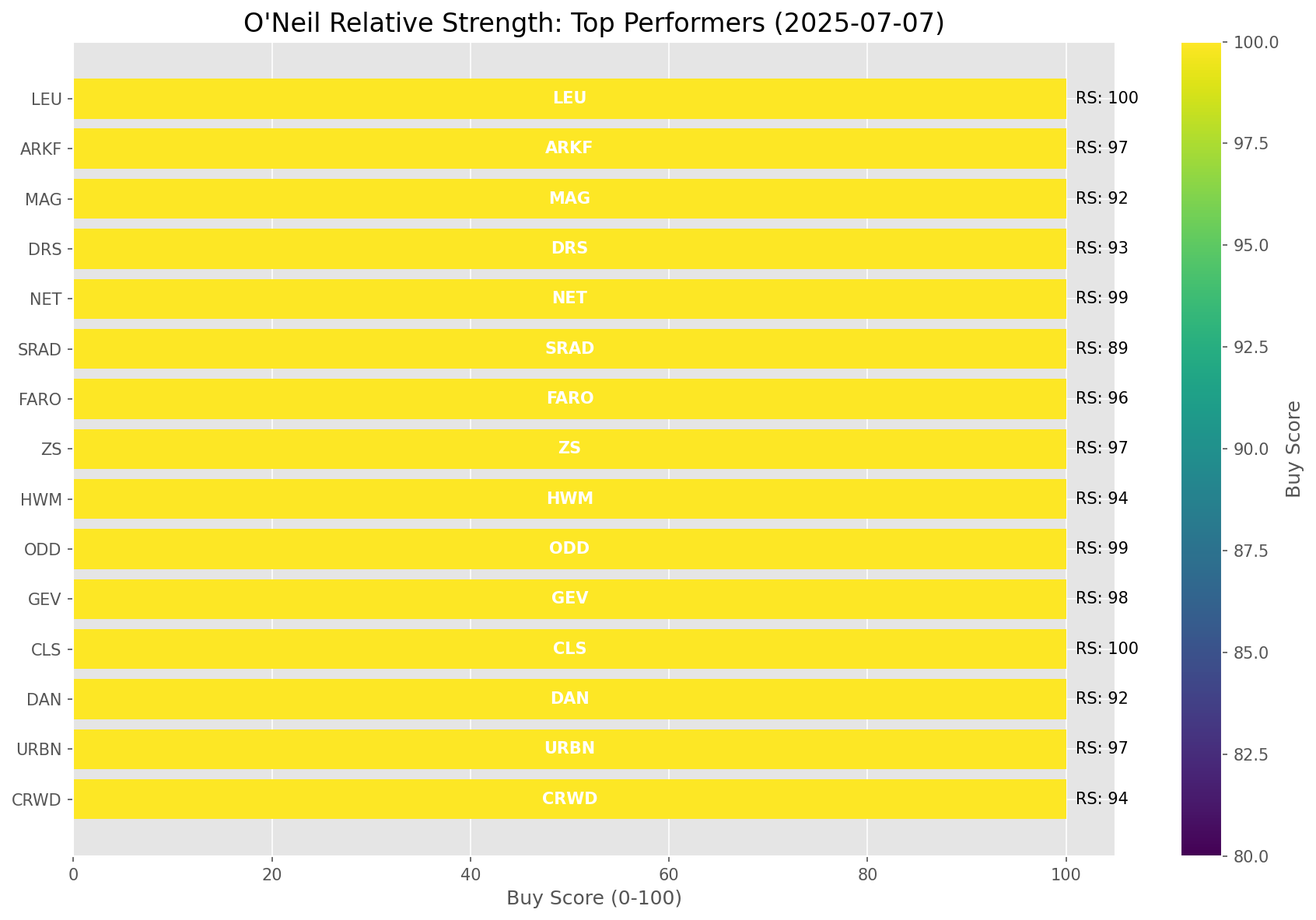
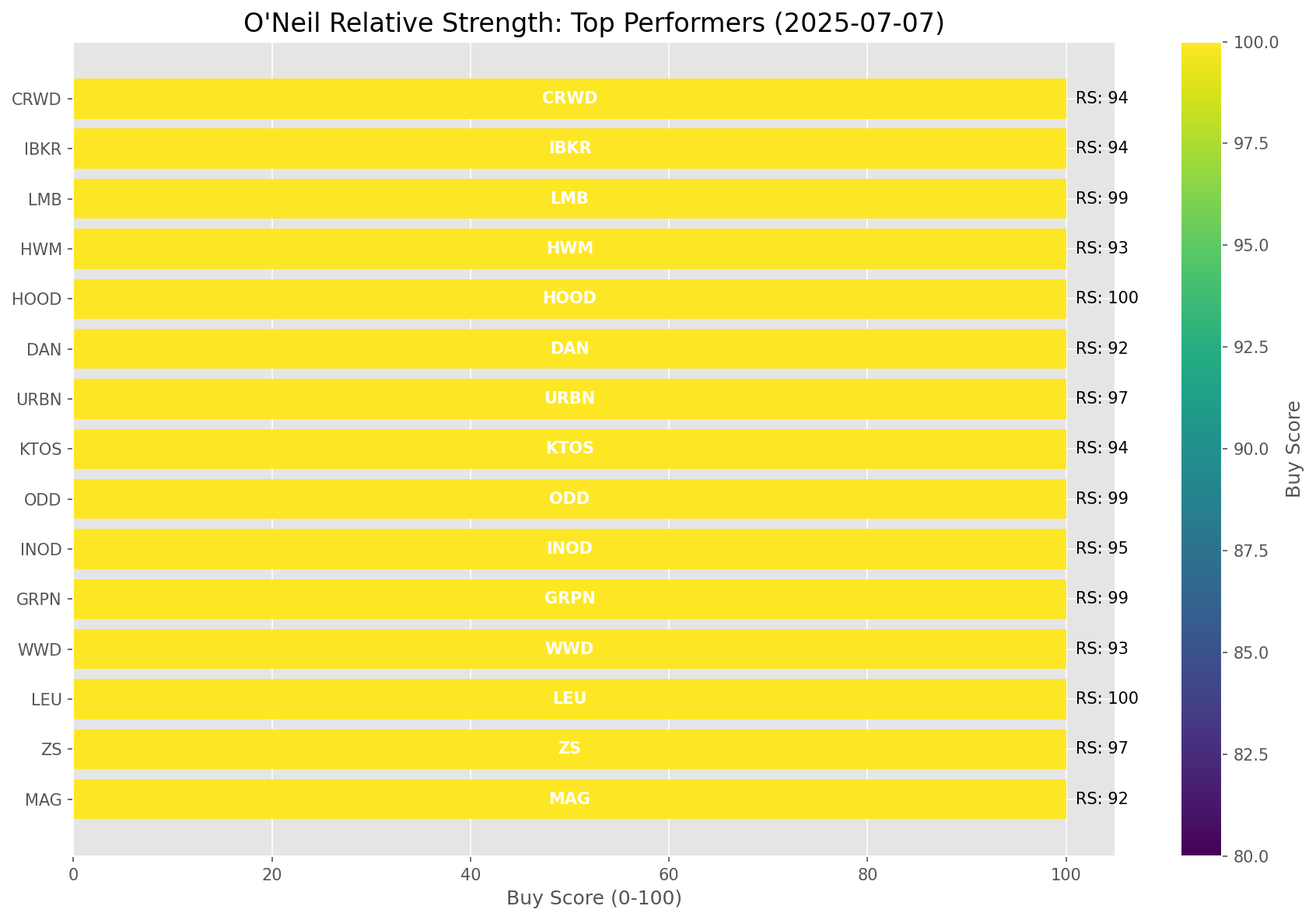
Add market report for 2025-07-07

diff --git a/oneil_relative_strength_report_2025-07-07.md b/oneil_relative_strength_report_2025-07-07.md
@@ -9,11 +9,11 @@
 | Metric | Value |
 |--------|-------|
 | **Market Valuation** | **Overvalued** |
-| **Current Ratio** | 10.22 |
+| **Current Ratio** | 10.23 |
 | **Historical Mean** | 9.40 |
 | **Standard Deviation** | 0.49 |
 | **Z-Score (StdDev from Mean)** | 1.81 |
-| **Total Market Cap** | $306.17 trillion |
+| **Total Market Cap** | $306.38 trillion |
 | **GDP** | $29.96 trillion |
 
 ## **Market Insights**
@@ -49,41 +49,41 @@ Based on William O'Neil's Relative Strength Methodology
 
 | ETF | Strength | RS Rating | Performance | Above Key MAs | Trend | Sector |
 |-----|----------|-----------|-------------|--------------|-------|--------|
-| [ARKW](https://www.tradingview.com/chart/?symbol=ARKW) | 98.5 | 97.0 | 61.89% | 10d ✓, 50d ✓, 200d ✓ | ↗ | Next Generation Internet |
-| [ARKF](https://www.tradingview.com/chart/?symbol=ARKF) | 98.5 | 97.0 | 58.72% | 10d ✓, 50d ✓, 200d ✓ | ↗ | Fintech Innovation |
-| [BLOK](https://www.tradingview.com/chart/?symbol=BLOK) | 98.0 | 96.0 | 54.61% | 10d ✓, 50d ✓, 200d ✓ | ↗ | Blockchain & Cryptocurrency |
-| [ARKK](https://www.tradingview.com/chart/?symbol=ARKK) | 98.0 | 96.0 | 55.85% | 10d ✓, 50d ✓, 200d ✓ | ↗ | Innovation |
-| [XLK](https://www.tradingview.com/chart/?symbol=XLK) | 93.5 | 87.0 | 30.93% | 10d ✓, 50d ✓, 200d ✓ | ↗ | Technology |
-| [JETS](https://www.tradingview.com/chart/?symbol=JETS) | 91.0 | 82.0 | 25.73% | 10d ✓, 50d ✓, 200d ✓ | ↗ | Airlines |
-| [AIQ](https://www.tradingview.com/chart/?symbol=AIQ) | 90.5 | 81.0 | 25.14% | 10d ✓, 50d ✓, 200d ✓ | ↗ | Artificial Intelligence & Technology |
-| [CIBR](https://www.tradingview.com/chart/?symbol=CIBR) | 90.0 | 80.0 | 24.01% | 10d ✓, 50d ✓, 200d ✓ | ↗ | Cybersecurity |
-| [PAVE](https://www.tradingview.com/chart/?symbol=PAVE) | 89.5 | 79.0 | 23.54% | 10d ✓, 50d ✓, 200d ✓ | ↗ | Infrastructure |
-| [URA](https://www.tradingview.com/chart/?symbol=URA) | 89.1 | 98.0 | 67.72% | 10d ✗, 50d ✓, 200d ✓ | ↗ | Uranium |
-| [XLI](https://www.tradingview.com/chart/?symbol=XLI) | 86.5 | 73.0 | 18.54% | 10d ✓, 50d ✓, 200d ✓ | ↗ | Industrial |
-| [XLC](https://www.tradingview.com/chart/?symbol=XLC) | 84.5 | 69.0 | 16.14% | 10d ✓, 50d ✓, 200d ✓ | ↗ | Communications |
-| [SLV](https://www.tradingview.com/chart/?symbol=SLV) | 83.5 | 67.0 | 15.16% | 10d ✓, 50d ✓, 200d ✓ | ↗ | Silver |
-| [XLY](https://www.tradingview.com/chart/?symbol=XLY) | 82.5 | 65.0 | 14.32% | 10d ✓, 50d ✓, 200d ✓ | ↗ | Consumer Discretionary |
-| [XLF](https://www.tradingview.com/chart/?symbol=XLF) | 79.0 | 58.0 | 10.79% | 10d ✓, 50d ✓, 200d ✓ | ↗ | Financial |
-| [SOXX](https://www.tradingview.com/chart/?symbol=SOXX) | 76.0 | 92.0 | 40.61% | 10d ✓, 50d ✓, 200d ✓ | ↘ | Semiconductors |
-| [IYZ](https://www.tradingview.com/chart/?symbol=IYZ) | 75.5 | 51.0 | 8.22% | 10d ✓, 50d ✓, 200d ✓ | ↗ | Telecommunications |
-| [XLU](https://www.tradingview.com/chart/?symbol=XLU) | 70.5 | 41.0 | 3.64% | 10d ✓, 50d ✓, 200d ✓ | ↗ | Utilities |
-| [ARKG](https://www.tradingview.com/chart/?symbol=ARKG) | 70.0 | 80.0 | 24.29% | 10d ✓, 50d ✓, 200d ✓ | ↘ | Genomics |
-| [ICLN](https://www.tradingview.com/chart/?symbol=ICLN) | 64.5 | 69.0 | 16.47% | 10d ✓, 50d ✓, 200d ✓ | ↘ | Clean Energy |
-| [XLP](https://www.tradingview.com/chart/?symbol=XLP) | 64.0 | 28.0 | -0.20% | 10d ✓, 50d ✓, 200d ✓ | ↗ | Consumer Staples |
-| [XLB](https://www.tradingview.com/chart/?symbol=XLB) | 57.0 | 54.0 | 9.15% | 10d ✓, 50d ✓, 200d ✓ | ↘ | Materials |
-| [IYT](https://www.tradingview.com/chart/?symbol=IYT) | 56.5 | 53.0 | 8.74% | 10d ✓, 50d ✓, 200d ✓ | ↘ | Transportation |
-| [GLD](https://www.tradingview.com/chart/?symbol=GLD) | 53.7 | 47.0 | 6.74% | 10d ✗, 50d ✗, 200d ✓ | ↗ | Gold |
-| [KWEB](https://www.tradingview.com/chart/?symbol=KWEB) | 51.6 | 23.0 | -1.62% | 10d ✗, 50d ✓, 200d ✓ | ↗ | Chinese Internet |
-| [DBC](https://www.tradingview.com/chart/?symbol=DBC) | 48.0 | 36.0 | 1.89% | 10d ✓, 50d ✓, 200d ✓ | ↘ | Commodities |
-| [ITB](https://www.tradingview.com/chart/?symbol=ITB) | 41.3 | 43.0 | 4.85% | 10d ✓, 50d ✓, 200d ✗ | ↘ | Home Construction |
-| [IBB](https://www.tradingview.com/chart/?symbol=IBB) | 39.8 | 40.0 | 3.55% | 10d ✓, 50d ✓, 200d ✗ | ↘ | Biotechnology |
-| [IYR](https://www.tradingview.com/chart/?symbol=IYR) | 38.3 | 37.0 | 2.34% | 10d ✓, 50d ✓, 200d ✗ | ↘ | Real Estate |
-| [XLE](https://www.tradingview.com/chart/?symbol=XLE) | 33.3 | 27.0 | -0.51% | 10d ✓, 50d ✓, 200d ✗ | ↘ | Energy |
+| [ARKF](https://www.tradingview.com/chart/?symbol=ARKF) | 98.5 | 97.0 | 58.98% | 10d ✓, 50d ✓, 200d ✓ | ↗ | Fintech Innovation |
+| [ARKW](https://www.tradingview.com/chart/?symbol=ARKW) | 98.5 | 97.0 | 62.26% | 10d ✓, 50d ✓, 200d ✓ | ↗ | Next Generation Internet |
+| [BLOK](https://www.tradingview.com/chart/?symbol=BLOK) | 98.0 | 96.0 | 54.21% | 10d ✓, 50d ✓, 200d ✓ | ↗ | Blockchain & Cryptocurrency |
+| [ARKK](https://www.tradingview.com/chart/?symbol=ARKK) | 98.0 | 96.0 | 56.38% | 10d ✓, 50d ✓, 200d ✓ | ↗ | Innovation |
+| [XLK](https://www.tradingview.com/chart/?symbol=XLK) | 93.0 | 86.0 | 31.19% | 10d ✓, 50d ✓, 200d ✓ | ↗ | Technology |
+| [AIQ](https://www.tradingview.com/chart/?symbol=AIQ) | 90.5 | 81.0 | 25.42% | 10d ✓, 50d ✓, 200d ✓ | ↗ | Artificial Intelligence & Technology |
+| [JETS](https://www.tradingview.com/chart/?symbol=JETS) | 90.0 | 80.0 | 25.10% | 10d ✓, 50d ✓, 200d ✓ | ↗ | Airlines |
+| [CIBR](https://www.tradingview.com/chart/?symbol=CIBR) | 89.5 | 79.0 | 24.14% | 10d ✓, 50d ✓, 200d ✓ | ↗ | Cybersecurity |
+| [URA](https://www.tradingview.com/chart/?symbol=URA) | 89.1 | 98.0 | 68.83% | 10d ✗, 50d ✓, 200d ✓ | ↗ | Uranium |
+| [PAVE](https://www.tradingview.com/chart/?symbol=PAVE) | 89.0 | 78.0 | 23.30% | 10d ✓, 50d ✓, 200d ✓ | ↗ | Infrastructure |
+| [XLI](https://www.tradingview.com/chart/?symbol=XLI) | 85.5 | 71.0 | 18.30% | 10d ✓, 50d ✓, 200d ✓ | ↗ | Industrial |
+| [XLC](https://www.tradingview.com/chart/?symbol=XLC) | 83.5 | 67.0 | 16.00% | 10d ✓, 50d ✓, 200d ✓ | ↗ | Communications |
+| [SLV](https://www.tradingview.com/chart/?symbol=SLV) | 83.0 | 66.0 | 15.46% | 10d ✓, 50d ✓, 200d ✓ | ↗ | Silver |
+| [XLY](https://www.tradingview.com/chart/?symbol=XLY) | 82.0 | 64.0 | 14.34% | 10d ✓, 50d ✓, 200d ✓ | ↗ | Consumer Discretionary |
+| [XLF](https://www.tradingview.com/chart/?symbol=XLF) | 78.0 | 56.0 | 10.64% | 10d ✓, 50d ✓, 200d ✓ | ↗ | Financial |
+| [SOXX](https://www.tradingview.com/chart/?symbol=SOXX) | 76.0 | 92.0 | 41.35% | 10d ✓, 50d ✓, 200d ✓ | ↘ | Semiconductors |
+| [IYZ](https://www.tradingview.com/chart/?symbol=IYZ) | 75.0 | 50.0 | 8.22% | 10d ✓, 50d ✓, 200d ✓ | ↗ | Telecommunications |
+| [ARKG](https://www.tradingview.com/chart/?symbol=ARKG) | 70.0 | 80.0 | 24.90% | 10d ✓, 50d ✓, 200d ✓ | ↘ | Genomics |
+| [XLU](https://www.tradingview.com/chart/?symbol=XLU) | 69.5 | 39.0 | 3.47% | 10d ✓, 50d ✓, 200d ✓ | ↗ | Utilities |
+| [ICLN](https://www.tradingview.com/chart/?symbol=ICLN) | 64.5 | 69.0 | 16.63% | 10d ✓, 50d ✓, 200d ✓ | ↘ | Clean Energy |
+| [XLP](https://www.tradingview.com/chart/?symbol=XLP) | 64.0 | 28.0 | -0.24% | 10d ✓, 50d ✓, 200d ✓ | ↗ | Consumer Staples |
+| [GLD](https://www.tradingview.com/chart/?symbol=GLD) | 63.6 | 47.0 | 6.85% | 10d ✗, 50d ✓, 200d ✓ | ↗ | Gold |
+| [IYT](https://www.tradingview.com/chart/?symbol=IYT) | 56.0 | 52.0 | 8.74% | 10d ✓, 50d ✓, 200d ✓ | ↘ | Transportation |
+| [XLB](https://www.tradingview.com/chart/?symbol=XLB) | 56.0 | 52.0 | 9.06% | 10d ✓, 50d ✓, 200d ✓ | ↘ | Materials |
+| [KWEB](https://www.tradingview.com/chart/?symbol=KWEB) | 51.1 | 22.0 | -1.65% | 10d ✗, 50d ✓, 200d ✓ | ↗ | Chinese Internet |
+| [DBC](https://www.tradingview.com/chart/?symbol=DBC) | 48.0 | 36.0 | 2.07% | 10d ✓, 50d ✓, 200d ✓ | ↘ | Commodities |
+| [ITB](https://www.tradingview.com/chart/?symbol=ITB) | 40.8 | 42.0 | 4.59% | 10d ✓, 50d ✓, 200d ✗ | ↘ | Home Construction |
+| [IBB](https://www.tradingview.com/chart/?symbol=IBB) | 39.8 | 40.0 | 3.72% | 10d ✓, 50d ✓, 200d ✗ | ↘ | Biotechnology |
+| [XLE](https://www.tradingview.com/chart/?symbol=XLE) | 32.8 | 26.0 | -0.69% | 10d ✓, 50d ✓, 200d ✗ | ↘ | Energy |
 | [DBA](https://www.tradingview.com/chart/?symbol=DBA) | 29.0 | 18.0 | -3.86% | 10d ✗, 50d ✗, 200d ✗ | ↗ | Agriculture |
-| [XLV](https://www.tradingview.com/chart/?symbol=XLV) | 26.8 | 14.0 | -5.93% | 10d ✓, 50d ✓, 200d ✗ | ↘ | Healthcare |
+| [IYR](https://www.tradingview.com/chart/?symbol=IYR) | 27.4 | 35.0 | 1.95% | 10d ✗, 50d ✓, 200d ✗ | ↘ | Real Estate |
+| [XLV](https://www.tradingview.com/chart/?symbol=XLV) | 26.8 | 14.0 | -6.03% | 10d ✓, 50d ✓, 200d ✗ | ↘ | Healthcare |
 | [UUP](https://www.tradingview.com/chart/?symbol=UUP) | 19.4 | 19.0 | -3.26% | 10d ✓, 50d ✗, 200d ✗ | ↘ | U.S. Dollar |
-| [BIL](https://www.tradingview.com/chart/?symbol=BIL) | 15.0 | 30.0 | 0.05% | 10d ✗, 50d ✗, 200d ✗ | ↘ | Short-term Treasuries |
-| [TLT](https://www.tradingview.com/chart/?symbol=TLT) | 7.0 | 14.0 | -6.08% | 10d ✗, 50d ✗, 200d ✗ | ↘ | Long-term Treasuries |
+| [BIL](https://www.tradingview.com/chart/?symbol=BIL) | 14.5 | 29.0 | 0.06% | 10d ✗, 50d ✗, 200d ✗ | ↘ | Short-term Treasuries |
+| [TLT](https://www.tradingview.com/chart/?symbol=TLT) | 7.0 | 14.0 | -6.16% | 10d ✗, 50d ✗, 200d ✗ | ↘ | Long-term Treasuries |
 
 ### **Sector ETF Performance Interpretation**
 
@@ -98,9 +98,9 @@ This table shows the relative strength metrics for different market sectors base
 
 ### **Current Sector Leadership**
 
-The current market leadership is coming from the following sectors: **Next Generation Internet, Fintech Innovation, Blockchain & Cryptocurrency**.
+The current market leadership is coming from the following sectors: **Fintech Innovation, Next Generation Internet, Blockchain & Cryptocurrency**.
 
-The **Next Generation Internet** sector (represented by **ARKW**) is showing particularly strong relative strength with an RS rating of 97.0 and performance of 61.89% vs. the S&P 500. This sector is trading above its 10-day, 50-day, 200-day moving average(s). Investors should consider focusing on high RS stocks within these leading sectors for potential outperformance.
+The **Fintech Innovation** sector (represented by **ARKF**) is showing particularly strong relative strength with an RS rating of 97.0 and performance of 58.98% vs. the S&P 500. This sector is trading above its 10-day, 50-day, 200-day moving average(s). Investors should consider focusing on high RS stocks within these leading sectors for potential outperformance.
 
 ---
 
@@ -110,141 +110,148 @@ The following 51 stocks show exceptional relative strength:
 
 | RS Rating | Buy Score | Current Price | Chart | Name | Ticker |
 |-----------|-----------|---------------|-------|------|--------|
-| 100 | 100 | $156.69 | [Chart](https://www.tradingview.com/chart/?symbol=CLS) | Celestica, Inc. | CLS |
-| 100 | 100 | $181.28 | [Chart](https://www.tradingview.com/chart/?symbol=LEU) | Centrus Energy Corp. | LEU |
-| 100 | 100 | $94.19 | [Chart](https://www.tradingview.com/chart/?symbol=HOOD) | Robinhood Markets, Inc. Class A Common Stock | HOOD |
-| 100 | 100 | $279.43 | [Chart](https://www.tradingview.com/chart/?symbol=DAVE) | Dave Inc. Class A Common Stock | DAVE |
-| 100 | 100 | $177.49 | [Chart](https://www.tradingview.com/chart/?symbol=SEZL) | Sezzle Inc. Common Stock | SEZL |
-| 99 | 100 | $76.01 | [Chart](https://www.tradingview.com/chart/?symbol=ODD) | ODDITY Tech Ltd. Class A Ordinary Shares | ODD |
-| 99 | 100 | $193.04 | [Chart](https://www.tradingview.com/chart/?symbol=NET) | Cloudflare, Inc. Class A common stock, par value $0.001 per share | NET |
-| 99 | 100 | $106.70 | [Chart](https://www.tradingview.com/chart/?symbol=RBLX) | Roblox Corporation | RBLX |
+| 100 | 100 | $182.53 | [Chart](https://www.tradingview.com/chart/?symbol=LEU) | Centrus Energy Corp. | LEU |
+| 100 | 100 | $93.22 | [Chart](https://www.tradingview.com/chart/?symbol=HOOD) | Robinhood Markets, Inc. Class A Common Stock | HOOD |
+| 100 | 100 | $179.20 | [Chart](https://www.tradingview.com/chart/?symbol=SEZL) | Sezzle Inc. Common Stock | SEZL |
+| 100 | 100 | $155.79 | [Chart](https://www.tradingview.com/chart/?symbol=CLS) | Celestica, Inc. | CLS |
+| 100 | 100 | $281.74 | [Chart](https://www.tradingview.com/chart/?symbol=DAVE) | Dave Inc. Class A Common Stock | DAVE |
+| 99 | 100 | $36.49 | [Chart](https://www.tradingview.com/chart/?symbol=GRPN) | Groupon, Inc.Common Stock | GRPN |
+| 99 | 100 | $75.33 | [Chart](https://www.tradingview.com/chart/?symbol=ODD) | ODDITY Tech Ltd. Class A Ordinary Shares | ODD |
 | 99 | 100 | $149.20 | [Chart](https://www.tradingview.com/chart/?symbol=LMB) | Limbach Holdings, Inc Common Stock | LMB |
-| 99 | 100 | $36.89 | [Chart](https://www.tradingview.com/chart/?symbol=GRPN) | Groupon, Inc.Common Stock | GRPN |
-| 99 | 100 | $351.38 | [Chart](https://www.tradingview.com/chart/?symbol=CVNA) | Carvana Co. | CVNA |
-| 98 | 100 | $525.32 | [Chart](https://www.tradingview.com/chart/?symbol=GEV) | GE Vernova Inc. | GEV |
-| 98 | 100 | $333.00 | [Chart](https://www.tradingview.com/chart/?symbol=RCL) | Royal Caribbean Group | RCL |
-| 97 | 100 | $72.04 | [Chart](https://www.tradingview.com/chart/?symbol=URBN) | Urban Outfitters Inc | URBN |
-| 97 | 100 | $315.07 | [Chart](https://www.tradingview.com/chart/?symbol=ZS) | Zscaler, Inc. Common Stock | ZS |
-| 97 | 100 | $50.46 | [Chart](https://www.tradingview.com/chart/?symbol=ARKF) | ARK Fintech Innovation ETF | ARKF |
-| 96 | 100 | $43.96 | [Chart](https://www.tradingview.com/chart/?symbol=FARO) | Faro Technologies Inc | FARO |
-| 96 | 100 | $90.50 | [Chart](https://www.tradingview.com/chart/?symbol=RBRK) | Rubrik, Inc. | RBRK |
-| 96 | 100 | $38.57 | [Chart](https://www.tradingview.com/chart/?symbol=AS) | Amer Sports, Inc. | AS |
-| 95 | 100 | $45.45 | [Chart](https://www.tradingview.com/chart/?symbol=KTOS) | Kratos Defense & Security Solutions, Inc. | KTOS |
-| 95 | 100 | $49.57 | [Chart](https://www.tradingview.com/chart/?symbol=INOD) | Innodata Inc. | INOD |
-| 94 | 100 | $503.76 | [Chart](https://www.tradingview.com/chart/?symbol=CRWD) | CrowdStrike Holdings, Inc. Class A Common Stock | CRWD |
-| 94 | 100 | $181.01 | [Chart](https://www.tradingview.com/chart/?symbol=HWM) | Howmet Aerospace Inc. | HWM |
-| 94 | 100 | $253.18 | [Chart](https://www.tradingview.com/chart/?symbol=WWD) | Woodward, Inc. | WWD |
-| 94 | 100 | $58.37 | [Chart](https://www.tradingview.com/chart/?symbol=IBKR) | Interactive Brokers Group, Inc. Class A Common Stock | IBKR |
-| 93 | 100 | $46.68 | [Chart](https://www.tradingview.com/chart/?symbol=DRS) | Leonardo DRS, Inc. Common Stock | DRS |
-| 92 | 100 | $17.55 | [Chart](https://www.tradingview.com/chart/?symbol=DAN) | Dana Incorporated | DAN |
+| 99 | 100 | $356.41 | [Chart](https://www.tradingview.com/chart/?symbol=CVNA) | Carvana Co. | CVNA |
+| 99 | 100 | $193.52 | [Chart](https://www.tradingview.com/chart/?symbol=NET) | Cloudflare, Inc. Class A common stock, par value $0.001 per share | NET |
+| 99 | 100 | $107.34 | [Chart](https://www.tradingview.com/chart/?symbol=RBLX) | Roblox Corporation | RBLX |
+| 98 | 100 | $527.38 | [Chart](https://www.tradingview.com/chart/?symbol=GEV) | GE Vernova Inc. | GEV |
+| 98 | 100 | $330.69 | [Chart](https://www.tradingview.com/chart/?symbol=RCL) | Royal Caribbean Group | RCL |
+| 97 | 100 | $315.86 | [Chart](https://www.tradingview.com/chart/?symbol=ZS) | Zscaler, Inc. Common Stock | ZS |
+| 97 | 100 | $71.97 | [Chart](https://www.tradingview.com/chart/?symbol=URBN) | Urban Outfitters Inc | URBN |
+| 97 | 100 | $50.54 | [Chart](https://www.tradingview.com/chart/?symbol=ARKF) | ARK Fintech Innovation ETF | ARKF |
+| 97 | 100 | $138.00 | [Chart](https://www.tradingview.com/chart/?symbol=PLTR) | Palantir Technologies Inc. Class A Common Stock | PLTR |
+| 96 | 100 | $43.94 | [Chart](https://www.tradingview.com/chart/?symbol=FARO) | Faro Technologies Inc | FARO |
+| 96 | 100 | $90.45 | [Chart](https://www.tradingview.com/chart/?symbol=RBRK) | Rubrik, Inc. | RBRK |
+| 96 | 100 | $38.40 | [Chart](https://www.tradingview.com/chart/?symbol=AS) | Amer Sports, Inc. | AS |
+| 95 | 100 | $50.23 | [Chart](https://www.tradingview.com/chart/?symbol=INOD) | Innodata Inc. | INOD |
+| 94 | 100 | $45.40 | [Chart](https://www.tradingview.com/chart/?symbol=KTOS) | Kratos Defense & Security Solutions, Inc. | KTOS |
+| 94 | 100 | $58.28 | [Chart](https://www.tradingview.com/chart/?symbol=IBKR) | Interactive Brokers Group, Inc. Class A Common Stock | IBKR |
+| 94 | 100 | $505.71 | [Chart](https://www.tradingview.com/chart/?symbol=CRWD) | CrowdStrike Holdings, Inc. Class A Common Stock | CRWD |
+| 93 | 100 | $252.74 | [Chart](https://www.tradingview.com/chart/?symbol=WWD) | Woodward, Inc. | WWD |
+| 93 | 100 | $180.48 | [Chart](https://www.tradingview.com/chart/?symbol=HWM) | Howmet Aerospace Inc. | HWM |
+| 93 | 100 | $46.82 | [Chart](https://www.tradingview.com/chart/?symbol=DRS) | Leonardo DRS, Inc. Common Stock | DRS |
 | 92 | 100 | $21.45 | [Chart](https://www.tradingview.com/chart/?symbol=MAG) | MAG Silver Corp. | MAG |
-| 92 | 100 | $91.62 | [Chart](https://www.tradingview.com/chart/?symbol=TPR) | Tapestry, Inc. Common Stock | TPR |
+| 92 | 100 | $17.52 | [Chart](https://www.tradingview.com/chart/?symbol=DAN) | Dana Incorporated | DAN |
+| 92 | 100 | $92.07 | [Chart](https://www.tradingview.com/chart/?symbol=TPR) | Tapestry, Inc. Common Stock | TPR |
 | 91 | 100 | $43.29 | [Chart](https://www.tradingview.com/chart/?symbol=KD) | Kyndryl Holdings, Inc. | KD |
-| 90 | 100 | $25.70 | [Chart](https://www.tradingview.com/chart/?symbol=KAR) | OPENLANE, Inc | KAR |
-| 89 | 100 | $28.23 | [Chart](https://www.tradingview.com/chart/?symbol=SRAD) | Sportradar Group AG Class A Ordinary Shares | SRAD |
+| 90 | 100 | $25.75 | [Chart](https://www.tradingview.com/chart/?symbol=KAR) | OPENLANE, Inc | KAR |
+| 88 | 100 | $28.24 | [Chart](https://www.tradingview.com/chart/?symbol=SRAD) | Sportradar Group AG Class A Ordinary Shares | SRAD |
 | 89 | 99 | $52.89 | [Chart](https://www.tradingview.com/chart/?symbol=BBW) | Build-A-Bear Workshop, Inc. | BBW |
-| 88 | 99 | $61.68 | [Chart](https://www.tradingview.com/chart/?symbol=IBIT) | iShares Bitcoin Trust ETF | IBIT |
-| 88 | 99 | $30.69 | [Chart](https://www.tradingview.com/chart/?symbol=HODL) | VanEck Bitcoin ETF | HODL |
-| 89 | 98 | $66.42 | [Chart](https://www.tradingview.com/chart/?symbol=RYTM) | Rhythm Pharmaceuticals, Inc. Common Stock | RYTM |
-| 84 | 97 | $18.31 | [Chart](https://www.tradingview.com/chart/?symbol=BCS) | Barclays PLC | BCS |
-| 84 | 97 | $66.26 | [Chart](https://www.tradingview.com/chart/?symbol=CHEF) | The Chef's Warehouse Inc | CHEF |
-| 83 | 96 | $29.87 | [Chart](https://www.tradingview.com/chart/?symbol=CAE) | CAE INC | CAE |
-| 84 | 95 | $187.96 | [Chart](https://www.tradingview.com/chart/?symbol=ITA) | iShares U.S. Aerospace & Defense ETF | ITA |
-| 84 | 95 | $284.04 | [Chart](https://www.tradingview.com/chart/?symbol=VEEV) | Veeva Systems Inc. | VEEV |
-| 84 | 95 | $133.65 | [Chart](https://www.tradingview.com/chart/?symbol=NTES) | NetEase, inc. | NTES |
-| 83 | 95 | $59.82 | [Chart](https://www.tradingview.com/chart/?symbol=SHLD) | Global X Defense Tech ETF | SHLD |
-| 84 | 94 | $47.16 | [Chart](https://www.tradingview.com/chart/?symbol=AU) | AngloGold Ashanti plc | AU |
-| 84 | 93 | $49.20 | [Chart](https://www.tradingview.com/chart/?symbol=SIL) | Global X Silver Miners ETF (NEW) | SIL |
-| 84 | 93 | $124.09 | [Chart](https://www.tradingview.com/chart/?symbol=FUTU) | Futu Holdings Limited American Depositary Shares | FUTU |
-| 83 | 93 | $112.08 | [Chart](https://www.tradingview.com/chart/?symbol=SPMO) | Invesco S&P 500 Momentum ETF | SPMO |
-| 82 | 93 | $76.91 | [Chart](https://www.tradingview.com/chart/?symbol=CTVA) | Corteva, Inc. Common Stock | CTVA |
-| 82 | 92 | $82.57 | [Chart](https://www.tradingview.com/chart/?symbol=WFC) | Wells Fargo & Co. | WFC |
-| 80 | 92 | $75.98 | [Chart](https://www.tradingview.com/chart/?symbol=CIBR) | First Trust Exchange-Traded Fund II First Trust NASDAQ Cybersecurity ETF | CIBR |
-| 80 | 92 | $407.66 | [Chart](https://www.tradingview.com/chart/?symbol=CYBR) | CyberArk Software Ltd. | CYBR |
+| 87 | 98 | $30.65 | [Chart](https://www.tradingview.com/chart/?symbol=HODL) | VanEck Bitcoin ETF | HODL |
+| 88 | 97 | $66.00 | [Chart](https://www.tradingview.com/chart/?symbol=RYTM) | Rhythm Pharmaceuticals, Inc. Common Stock | RYTM |
+| 87 | 97 | $61.58 | [Chart](https://www.tradingview.com/chart/?symbol=IBIT) | iShares Bitcoin Trust ETF | IBIT |
+| 84 | 97 | $66.75 | [Chart](https://www.tradingview.com/chart/?symbol=CHEF) | The Chef's Warehouse Inc | CHEF |
+| 83 | 96 | $18.29 | [Chart](https://www.tradingview.com/chart/?symbol=BCS) | Barclays PLC | BCS |
+| 84 | 95 | $284.37 | [Chart](https://www.tradingview.com/chart/?symbol=VEEV) | Veeva Systems Inc. | VEEV |
+| 82 | 95 | $29.85 | [Chart](https://www.tradingview.com/chart/?symbol=CAE) | CAE INC | CAE |
+| 84 | 94 | $47.39 | [Chart](https://www.tradingview.com/chart/?symbol=AU) | AngloGold Ashanti plc | AU |
+| 83 | 94 | $133.78 | [Chart](https://www.tradingview.com/chart/?symbol=NTES) | NetEase, inc. | NTES |
+| 82 | 94 | $59.88 | [Chart](https://www.tradingview.com/chart/?symbol=SHLD) | Global X Defense Tech ETF | SHLD |
+| 82 | 93 | $187.71 | [Chart](https://www.tradingview.com/chart/?symbol=ITA) | iShares U.S. Aerospace & Defense ETF | ITA |
+| 83 | 92 | $49.34 | [Chart](https://www.tradingview.com/chart/?symbol=SIL) | Global X Silver Miners ETF (NEW) | SIL |
+| 83 | 92 | $124.60 | [Chart](https://www.tradingview.com/chart/?symbol=FUTU) | Futu Holdings Limited American Depositary Shares | FUTU |
+| 82 | 92 | $112.14 | [Chart](https://www.tradingview.com/chart/?symbol=SPMO) | Invesco S&P 500 Momentum ETF | SPMO |
+| 81 | 92 | $72.23 | [Chart](https://www.tradingview.com/chart/?symbol=ULS) | UL Solutions Inc. | ULS |
+| 81 | 92 | $76.80 | [Chart](https://www.tradingview.com/chart/?symbol=CTVA) | Corteva, Inc. Common Stock | CTVA |
+| 81 | 91 | $82.18 | [Chart](https://www.tradingview.com/chart/?symbol=WFC) | Wells Fargo & Co. | WFC |
 
 ---
 
 
 ## **Sell Recommendations**
 
-The following 74 stocks show deteriorating relative strength:
+The following 81 stocks show deteriorating relative strength:
 
 | RS Rating | Sell Score | Current Price | Chart | Name | Ticker |
 |-----------|------------|---------------|-------|------|--------|
+| 1 | 100 | $25.18 | [Chart](https://www.tradingview.com/chart/?symbol=QID) | ProShares UltraShort QQQ | QID |
 | 1 | 100 | $10.09 | [Chart](https://www.tradingview.com/chart/?symbol=HIBS) | Direxion Daily S&P 500 High Beta Bear 3X Shares | HIBS |
-| 1 | 100 | $14.41 | [Chart](https://www.tradingview.com/chart/?symbol=NVDS) | Investment Managers Series Trust II Tradr 1.5X Short NVDA Daily ETF | NVDS |
-| 1 | 100 | $26.03 | [Chart](https://www.tradingview.com/chart/?symbol=TECS) | Direxion Daily Technology Bear 3x Shares | TECS |
-| 1 | 100 | $25.25 | [Chart](https://www.tradingview.com/chart/?symbol=QID) | ProShares UltraShort QQQ | QID |
+| 1 | 100 | $25.84 | [Chart](https://www.tradingview.com/chart/?symbol=TECS) | Direxion Daily Technology Bear 3x Shares | TECS |
+| 1 | 100 | $14.33 | [Chart](https://www.tradingview.com/chart/?symbol=NVDS) | Investment Managers Series Trust II Tradr 1.5X Short NVDA Daily ETF | NVDS |
+| 2 | 100 | $43.04 | [Chart](https://www.tradingview.com/chart/?symbol=LINE) | Lineage, Inc. Common Stock | LINE |
 | 2 | 100 | $16.47 | [Chart](https://www.tradingview.com/chart/?symbol=SDS) | ProShares UltraShort S&P500 | SDS |
-| 2 | 100 | $19.49 | [Chart](https://www.tradingview.com/chart/?symbol=BITI) | ProShares Short Bitcoin ETF | BITI |
-| 2 | 100 | $40.22 | [Chart](https://www.tradingview.com/chart/?symbol=SDOW) | ProShares UltraPro Short Dow 30 | SDOW |
+| 2 | 100 | $19.52 | [Chart](https://www.tradingview.com/chart/?symbol=BITI) | ProShares Short Bitcoin ETF | BITI |
 | 2 | 100 | $10.20 | [Chart](https://www.tradingview.com/chart/?symbol=HPK) | HighPeak Energy, Inc. Common Stock | HPK |
-| 2 | 100 | $24.96 | [Chart](https://www.tradingview.com/chart/?symbol=CRTO) | Criteo S.A. | CRTO |
-| 2 | 100 | $42.81 | [Chart](https://www.tradingview.com/chart/?symbol=LINE) | Lineage, Inc. Common Stock | LINE |
-| 3 | 100 | $33.64 | [Chart](https://www.tradingview.com/chart/?symbol=PSQ) | ProShares Short QQQ | PSQ |
-| 3 | 100 | $23.75 | [Chart](https://www.tradingview.com/chart/?symbol=DXD) | ProShares UltraShort Dow 30 | DXD |
-| 3 | 100 | $35.70 | [Chart](https://www.tradingview.com/chart/?symbol=SARK) | Investment Managers Series Trust II Tradr 1X Short Innovation Daily ETF | SARK |
-| 4 | 100 | $78.98 | [Chart](https://www.tradingview.com/chart/?symbol=LNTH) | Lantheus Holdings, Inc | LNTH |
-| 4 | 100 | $93.16 | [Chart](https://www.tradingview.com/chart/?symbol=ZBH) | Zimmer Biomet Holdings, Inc. | ZBH |
-| 4 | 100 | $50.32 | [Chart](https://www.tradingview.com/chart/?symbol=ASGN) | ASGN Incorporated | ASGN |
-| 4 | 100 | $33.41 | [Chart](https://www.tradingview.com/chart/?symbol=CYTK) | Cytokinetics Inc. | CYTK |
-| 5 | 100 | $39.47 | [Chart](https://www.tradingview.com/chart/?symbol=SH) | ProShares Short S&P500 | SH |
-| 5 | 100 | $10.29 | [Chart](https://www.tradingview.com/chart/?symbol=LBTYK) | Liberty Global Ltd. Class C Common Shares | LBTYK |
-| 6 | 100 | $23.44 | [Chart](https://www.tradingview.com/chart/?symbol=AMPH) | Amphastar Pharmaceuticals, Inc. | AMPH |
-| 7 | 100 | $51.97 | [Chart](https://www.tradingview.com/chart/?symbol=LW) | Lamb Weston Holdings, Inc. | LW |
-| 8 | 100 | $84.64 | [Chart](https://www.tradingview.com/chart/?symbol=KSPI) | Joint Stock Company Kaspi.kz American Depository Shares | KSPI |
-| 9 | 100 | $11.84 | [Chart](https://www.tradingview.com/chart/?symbol=LBRT) | Liberty Energy Inc. | LBRT |
-| 9 | 100 | $25.23 | [Chart](https://www.tradingview.com/chart/?symbol=DOG) | ProShares Short Dow30 | DOG |
-| 10 | 100 | $132.06 | [Chart](https://www.tradingview.com/chart/?symbol=KMB) | Kimberly-Clark Corp. | KMB |
-| 11 | 100 | $53.22 | [Chart](https://www.tradingview.com/chart/?symbol=CNMD) | CONMED Corporation | CNMD |
-| 12 | 100 | $47.45 | [Chart](https://www.tradingview.com/chart/?symbol=KBR) | KBR, Inc. | KBR |
+| 2 | 100 | $40.41 | [Chart](https://www.tradingview.com/chart/?symbol=SDOW) | ProShares UltraPro Short Dow 30 | SDOW |
+| 3 | 100 | $35.58 | [Chart](https://www.tradingview.com/chart/?symbol=SARK) | Investment Managers Series Trust II Tradr 1X Short Innovation Daily ETF | SARK |
+| 3 | 100 | $23.84 | [Chart](https://www.tradingview.com/chart/?symbol=DXD) | ProShares UltraShort Dow 30 | DXD |
+| 3 | 100 | $33.59 | [Chart](https://www.tradingview.com/chart/?symbol=PSQ) | ProShares Short QQQ | PSQ |
+| 3 | 100 | $25.14 | [Chart](https://www.tradingview.com/chart/?symbol=CRTO) | Criteo S.A. | CRTO |
+| 4 | 100 | $79.81 | [Chart](https://www.tradingview.com/chart/?symbol=LNTH) | Lantheus Holdings, Inc | LNTH |
+| 4 | 100 | $92.97 | [Chart](https://www.tradingview.com/chart/?symbol=ZBH) | Zimmer Biomet Holdings, Inc. | ZBH |
+| 4 | 100 | $33.69 | [Chart](https://www.tradingview.com/chart/?symbol=CYTK) | Cytokinetics Inc. | CYTK |
+| 4 | 100 | $49.25 | [Chart](https://www.tradingview.com/chart/?symbol=CCOI) | Cogent Communications Holdings, Inc. | CCOI |
+| 5 | 100 | $39.48 | [Chart](https://www.tradingview.com/chart/?symbol=SH) | ProShares Short S&P500 | SH |
+| 5 | 100 | $10.22 | [Chart](https://www.tradingview.com/chart/?symbol=LBTYK) | Liberty Global Ltd. Class C Common Shares | LBTYK |
+| 6 | 100 | $51.97 | [Chart](https://www.tradingview.com/chart/?symbol=LW) | Lamb Weston Holdings, Inc. | LW |
+| 6 | 100 | $14.49 | [Chart](https://www.tradingview.com/chart/?symbol=VRE) | Veris Residential, Inc. | VRE |
+| 9 | 100 | $11.75 | [Chart](https://www.tradingview.com/chart/?symbol=LBRT) | Liberty Energy Inc. | LBRT |
+| 9 | 100 | $25.28 | [Chart](https://www.tradingview.com/chart/?symbol=DOG) | ProShares Short Dow30 | DOG |
+| 10 | 100 | $131.84 | [Chart](https://www.tradingview.com/chart/?symbol=KMB) | Kimberly-Clark Corp. | KMB |
+| 10 | 100 | $52.62 | [Chart](https://www.tradingview.com/chart/?symbol=CNMD) | CONMED Corporation | CNMD |
+| 11 | 100 | $47.01 | [Chart](https://www.tradingview.com/chart/?symbol=KBR) | KBR, Inc. | KBR |
+| 11 | 100 | $83.03 | [Chart](https://www.tradingview.com/chart/?symbol=KSPI) | Joint Stock Company Kaspi.kz American Depository Shares | KSPI |
 | 13 | 100 | $86.33 | [Chart](https://www.tradingview.com/chart/?symbol=SIGI) | Selective Insurance Group | SIGI |
-| 13 | 100 | $14.02 | [Chart](https://www.tradingview.com/chart/?symbol=OCSL) | Oaktree Specialty Lending Corporation | OCSL |
-| 14 | 100 | $17.93 | [Chart](https://www.tradingview.com/chart/?symbol=ZTO) | ZTO Express (Cayman) Inc. American Depositary Shares, each representing one Class A ordinary share | ZTO |
-| 10 | 99 | $62.01 | [Chart](https://www.tradingview.com/chart/?symbol=ELS) | Equity Lifestyle Properties, Inc. | ELS |
-| 7 | 98 | $91.95 | [Chart](https://www.tradingview.com/chart/?symbol=GLOB) | GLOBANT S.A. | GLOB |
-| 8 | 98 | $48.36 | [Chart](https://www.tradingview.com/chart/?symbol=SNY) | Sanofi American Depositary Shares (Each representing one-half of one ordinary share) | SNY |
-| 11 | 98 | $29.85 | [Chart](https://www.tradingview.com/chart/?symbol=QDEL) | QuidelOrtho Corporation Common Stock | QDEL |
+| 10 | 99 | $61.73 | [Chart](https://www.tradingview.com/chart/?symbol=ELS) | Equity Lifestyle Properties, Inc. | ELS |
+| 13 | 99 | $14.03 | [Chart](https://www.tradingview.com/chart/?symbol=OCSL) | Oaktree Specialty Lending Corporation | OCSL |
+| 10 | 98 | $29.73 | [Chart](https://www.tradingview.com/chart/?symbol=QDEL) | QuidelOrtho Corporation Common Stock | QDEL |
+| 11 | 98 | $40.77 | [Chart](https://www.tradingview.com/chart/?symbol=POR) | Portland General Electric Company | POR |
 | 6 | 97 | $80.10 | [Chart](https://www.tradingview.com/chart/?symbol=OKE) | Oneok, Inc. | OKE |
-| 12 | 97 | $41.01 | [Chart](https://www.tradingview.com/chart/?symbol=POR) | Portland General Electric Company | POR |
+| 8 | 97 | $48.38 | [Chart](https://www.tradingview.com/chart/?symbol=SNY) | Sanofi American Depositary Shares (Each representing one-half of one ordinary share) | SNY |
+| 10 | 97 | $13.75 | [Chart](https://www.tradingview.com/chart/?symbol=EIC) | Eagle Point Income Company Inc. | EIC |
+| 19 | 97 | $10.35 | [Chart](https://www.tradingview.com/chart/?symbol=MUC) | BLACKROCK MUNIHOLDINGS CALIFORNIA QUALITY FUND, INC | MUC |
 | 5 | 96 | $24.77 | [Chart](https://www.tradingview.com/chart/?symbol=DRV) | Direxion Daily Real Estate Bear 3X Shares | DRV |
-| 16 | 96 | $52.88 | [Chart](https://www.tradingview.com/chart/?symbol=KBH) | KB Home | KBH |
-| 8 | 94 | $36.98 | [Chart](https://www.tradingview.com/chart/?symbol=VNOM) | Viper Energy, Inc. Class A Common Stock | VNOM |
-| 16 | 93 | $10.37 | [Chart](https://www.tradingview.com/chart/?symbol=NMZ) | Nuveen Municipal High Income Opportunity Fund | NMZ |
-| 18 | 93 | $103.91 | [Chart](https://www.tradingview.com/chart/?symbol=DEO) | Diageo plc | DEO |
-| 20 | 93 | $30.50 | [Chart](https://www.tradingview.com/chart/?symbol=BAX) | Baxter International Inc. | BAX |
+| 16 | 96 | $52.83 | [Chart](https://www.tradingview.com/chart/?symbol=KBH) | KB Home | KBH |
+| 18 | 95 | $30.27 | [Chart](https://www.tradingview.com/chart/?symbol=BAX) | Baxter International Inc. | BAX |
+| 16 | 93 | $10.36 | [Chart](https://www.tradingview.com/chart/?symbol=NMZ) | Nuveen Municipal High Income Opportunity Fund | NMZ |
+| 17 | 93 | $103.54 | [Chart](https://www.tradingview.com/chart/?symbol=DEO) | Diageo plc | DEO |
 | 10 | 92 | $38.53 | [Chart](https://www.tradingview.com/chart/?symbol=LKQ) | LKQ Corporation | LKQ |
-| 14 | 92 | $86.27 | [Chart](https://www.tradingview.com/chart/?symbol=TLT) | iShares 20+ Year Treasury Bond ETF | TLT |
-| 20 | 92 | $767.93 | [Chart](https://www.tradingview.com/chart/?symbol=LLY) | Eli Lilly & Co. | LLY |
-| 10 | 91 | $36.73 | [Chart](https://www.tradingview.com/chart/?symbol=PBA) | PEMBINA PIPELINE CORPORATION | PBA |
-| 12 | 91 | $104.92 | [Chart](https://www.tradingview.com/chart/?symbol=PDD) | PDD Holdings Inc. American Depositary Shares | PDD |
-| 13 | 91 | $12.70 | [Chart](https://www.tradingview.com/chart/?symbol=EWTX) | Edgewise Therapeutics, Inc. Common Stock | EWTX |
-| 14 | 91 | $288.84 | [Chart](https://www.tradingview.com/chart/?symbol=UTHR) | United Therapeutics Corp | UTHR |
-| 15 | 91 | $12.68 | [Chart](https://www.tradingview.com/chart/?symbol=PCN) | PIMCO Corporate & Income Strategy Fund | PCN |
-| 15 | 91 | $18.96 | [Chart](https://www.tradingview.com/chart/?symbol=MSDL) | Morgan Stanley Direct Lending Fund | MSDL |
-| 16 | 90 | $27.03 | [Chart](https://www.tradingview.com/chart/?symbol=VCYT) | Veracyte, Inc. | VCYT |
-| 14 | 89 | $41.09 | [Chart](https://www.tradingview.com/chart/?symbol=UDR) | UDR, Inc. | UDR |
-| 18 | 88 | $21.99 | [Chart](https://www.tradingview.com/chart/?symbol=SGRY) | Surgery Partners, Inc. Common Stock | SGRY |
-| 16 | 86 | $36.73 | [Chart](https://www.tradingview.com/chart/?symbol=OHI) | Omega Healthcare Investors Inc. | OHI |
-| 17 | 86 | $35.62 | [Chart](https://www.tradingview.com/chart/?symbol=AMH) | AMERICAN HOMES 4 RENT | AMH |
-| 17 | 86 | $32.45 | [Chart](https://www.tradingview.com/chart/?symbol=INVH) | Invitation Homes Inc. Common Stock | INVH |
-| 23 | 86 | $61.57 | [Chart](https://www.tradingview.com/chart/?symbol=UL) | Unilever plc | UL |
-| 28 | 85 | $28.05 | [Chart](https://www.tradingview.com/chart/?symbol=RNA) | Avidity Biosciences, Inc. Common Stock | RNA |
-| 20 | 84 | $30.62 | [Chart](https://www.tradingview.com/chart/?symbol=AXTA) | Axalta Coating Systems Ltd. | AXTA |
-| 21 | 84 | $35.20 | [Chart](https://www.tradingview.com/chart/?symbol=PECO) | Phillips Edison & Company, Inc. Common Stock | PECO |
-| 23 | 84 | $39.70 | [Chart](https://www.tradingview.com/chart/?symbol=TOTL) | SSgA Active ETF Trust SPDR DoubleLine Total Return Tactical ETF | TOTL |
+| 14 | 92 | $86.19 | [Chart](https://www.tradingview.com/chart/?symbol=TLT) | iShares 20+ Year Treasury Bond ETF | TLT |
+| 21 | 91 | $772.00 | [Chart](https://www.tradingview.com/chart/?symbol=LLY) | Eli Lilly & Co. | LLY |
+| 12 | 90 | $105.11 | [Chart](https://www.tradingview.com/chart/?symbol=PDD) | PDD Holdings Inc. American Depositary Shares | PDD |
+| 13 | 90 | $40.90 | [Chart](https://www.tradingview.com/chart/?symbol=UDR) | UDR, Inc. | UDR |
+| 14 | 90 | $289.67 | [Chart](https://www.tradingview.com/chart/?symbol=UTHR) | United Therapeutics Corp | UTHR |
+| 15 | 90 | $101.35 | [Chart](https://www.tradingview.com/chart/?symbol=CCI) | Crown Castle Inc. | CCI |
+| 15 | 90 | $18.97 | [Chart](https://www.tradingview.com/chart/?symbol=MSDL) | Morgan Stanley Direct Lending Fund | MSDL |
+| 15 | 90 | $12.68 | [Chart](https://www.tradingview.com/chart/?symbol=PCN) | PIMCO Corporate & Income Strategy Fund | PCN |
+| 16 | 90 | $27.12 | [Chart](https://www.tradingview.com/chart/?symbol=VCYT) | Veracyte, Inc. | VCYT |
+| 17 | 90 | $14.12 | [Chart](https://www.tradingview.com/chart/?symbol=DOLE) | Dole plc | DOLE |
+| 14 | 89 | $12.77 | [Chart](https://www.tradingview.com/chart/?symbol=EWTX) | Edgewise Therapeutics, Inc. Common Stock | EWTX |
+| 15 | 89 | $63.35 | [Chart](https://www.tradingview.com/chart/?symbol=COLM) | Columbia Sportswear Co | COLM |
+| 18 | 88 | $22.00 | [Chart](https://www.tradingview.com/chart/?symbol=SGRY) | Surgery Partners, Inc. Common Stock | SGRY |
+| 15 | 87 | $36.61 | [Chart](https://www.tradingview.com/chart/?symbol=OHI) | Omega Healthcare Investors Inc. | OHI |
+| 16 | 87 | $32.34 | [Chart](https://www.tradingview.com/chart/?symbol=INVH) | Invitation Homes Inc. Common Stock | INVH |
+| 17 | 86 | $35.49 | [Chart](https://www.tradingview.com/chart/?symbol=AMH) | AMERICAN HOMES 4 RENT | AMH |
+| 22 | 86 | $61.52 | [Chart](https://www.tradingview.com/chart/?symbol=UL) | Unilever plc | UL |
+| 19 | 85 | $30.52 | [Chart](https://www.tradingview.com/chart/?symbol=AXTA) | Axalta Coating Systems Ltd. | AXTA |
+| 20 | 84 | $35.09 | [Chart](https://www.tradingview.com/chart/?symbol=PECO) | Phillips Edison & Company, Inc. Common Stock | PECO |
+| 22 | 84 | $39.69 | [Chart](https://www.tradingview.com/chart/?symbol=TOTL) | SSgA Active ETF Trust SPDR DoubleLine Total Return Tactical ETF | TOTL |
+| 28 | 84 | $28.06 | [Chart](https://www.tradingview.com/chart/?symbol=RNA) | Avidity Biosciences, Inc. Common Stock | RNA |
 | 25 | 83 | $197.79 | [Chart](https://www.tradingview.com/chart/?symbol=RGA) | Reinsurance Group of America, Incorporated | RGA |
-| 28 | 82 | $22.84 | [Chart](https://www.tradingview.com/chart/?symbol=IBTG) | iShares iBonds Dec 2026 Term Treasury ETF | IBTG |
+| 27 | 83 | $22.84 | [Chart](https://www.tradingview.com/chart/?symbol=IBTG) | iShares iBonds Dec 2026 Term Treasury ETF | IBTG |
+| 22 | 82 | $14.35 | [Chart](https://www.tradingview.com/chart/?symbol=BMEZ) | BlackRock Health Sciences Term Trust | BMEZ |
+| 21 | 80 | $27.46 | [Chart](https://www.tradingview.com/chart/?symbol=IVT) | InvenTrust Properties Corp. | IVT |
 | 24 | 79 | $69.68 | [Chart](https://www.tradingview.com/chart/?symbol=BRC) | Brady Corporation | BRC |
+| 29 | 79 | $301.58 | [Chart](https://www.tradingview.com/chart/?symbol=ACN) | Accenture PLC | ACN |
 | 25 | 78 | $21.70 | [Chart](https://www.tradingview.com/chart/?symbol=TUA) | Simplify Short Term Treasury Futures Strategy ETF | TUA |
 | 39 | 78 | $18.45 | [Chart](https://www.tradingview.com/chart/?symbol=S) | SentinelOne, Inc. | S |
-| 31 | 77 | $302.53 | [Chart](https://www.tradingview.com/chart/?symbol=ACN) | Accenture PLC | ACN |
-| 28 | 75 | $29.14 | [Chart](https://www.tradingview.com/chart/?symbol=SPTS) | SPDR Portfolio Short Term Treasury ETF | SPTS |
-| 33 | 75 | $56.64 | [Chart](https://www.tradingview.com/chart/?symbol=DAY) | Dayforce, Inc. | DAY |
-| 35 | 73 | $29.32 | [Chart](https://www.tradingview.com/chart/?symbol=CRNX) | Crinetics Pharmaceuticals, Inc. | CRNX |
-| 29 | 72 | $110.12 | [Chart](https://www.tradingview.com/chart/?symbol=SHV) | iShares Short Treasury Bond ETF | SHV |
-| 38 | 70 | $119.23 | [Chart](https://www.tradingview.com/chart/?symbol=ITGR) | Integer Holdings Corporation | ITGR |
-| 38 | 69 | $349.07 | [Chart](https://www.tradingview.com/chart/?symbol=SHW) | The Sherwin-Williams Company | SHW |
+| 32 | 76 | $56.58 | [Chart](https://www.tradingview.com/chart/?symbol=DAY) | Dayforce, Inc. | DAY |
+| 27 | 75 | $29.13 | [Chart](https://www.tradingview.com/chart/?symbol=SPTS) | SPDR Portfolio Short Term Treasury ETF | SPTS |
+| 38 | 74 | $467.80 | [Chart](https://www.tradingview.com/chart/?symbol=LMT) | Lockheed Martin Corp. | LMT |
+| 35 | 73 | $29.44 | [Chart](https://www.tradingview.com/chart/?symbol=CRNX) | Crinetics Pharmaceuticals, Inc. | CRNX |
+| 29 | 71 | $110.12 | [Chart](https://www.tradingview.com/chart/?symbol=SHV) | iShares Short Treasury Bond ETF | SHV |
+| 36 | 71 | $118.75 | [Chart](https://www.tradingview.com/chart/?symbol=ITGR) | Integer Holdings Corporation | ITGR |
+| 36 | 71 | $347.62 | [Chart](https://www.tradingview.com/chart/?symbol=SHW) | The Sherwin-Williams Company | SHW |
+| 39 | 71 | $125.44 | [Chart](https://www.tradingview.com/chart/?symbol=RGEN) | Repligen Corp | RGEN |
+| 35 | 68 | $219.82 | [Chart](https://www.tradingview.com/chart/?symbol=MKTX) | MarketAxess Holdings Inc. | MKTX |
+| 38 | 63 | $89.75 | [Chart](https://www.tradingview.com/chart/?symbol=LPX) | Louisiana-Pacific Corp. | LPX |
 
 ## **Methodology**
 
